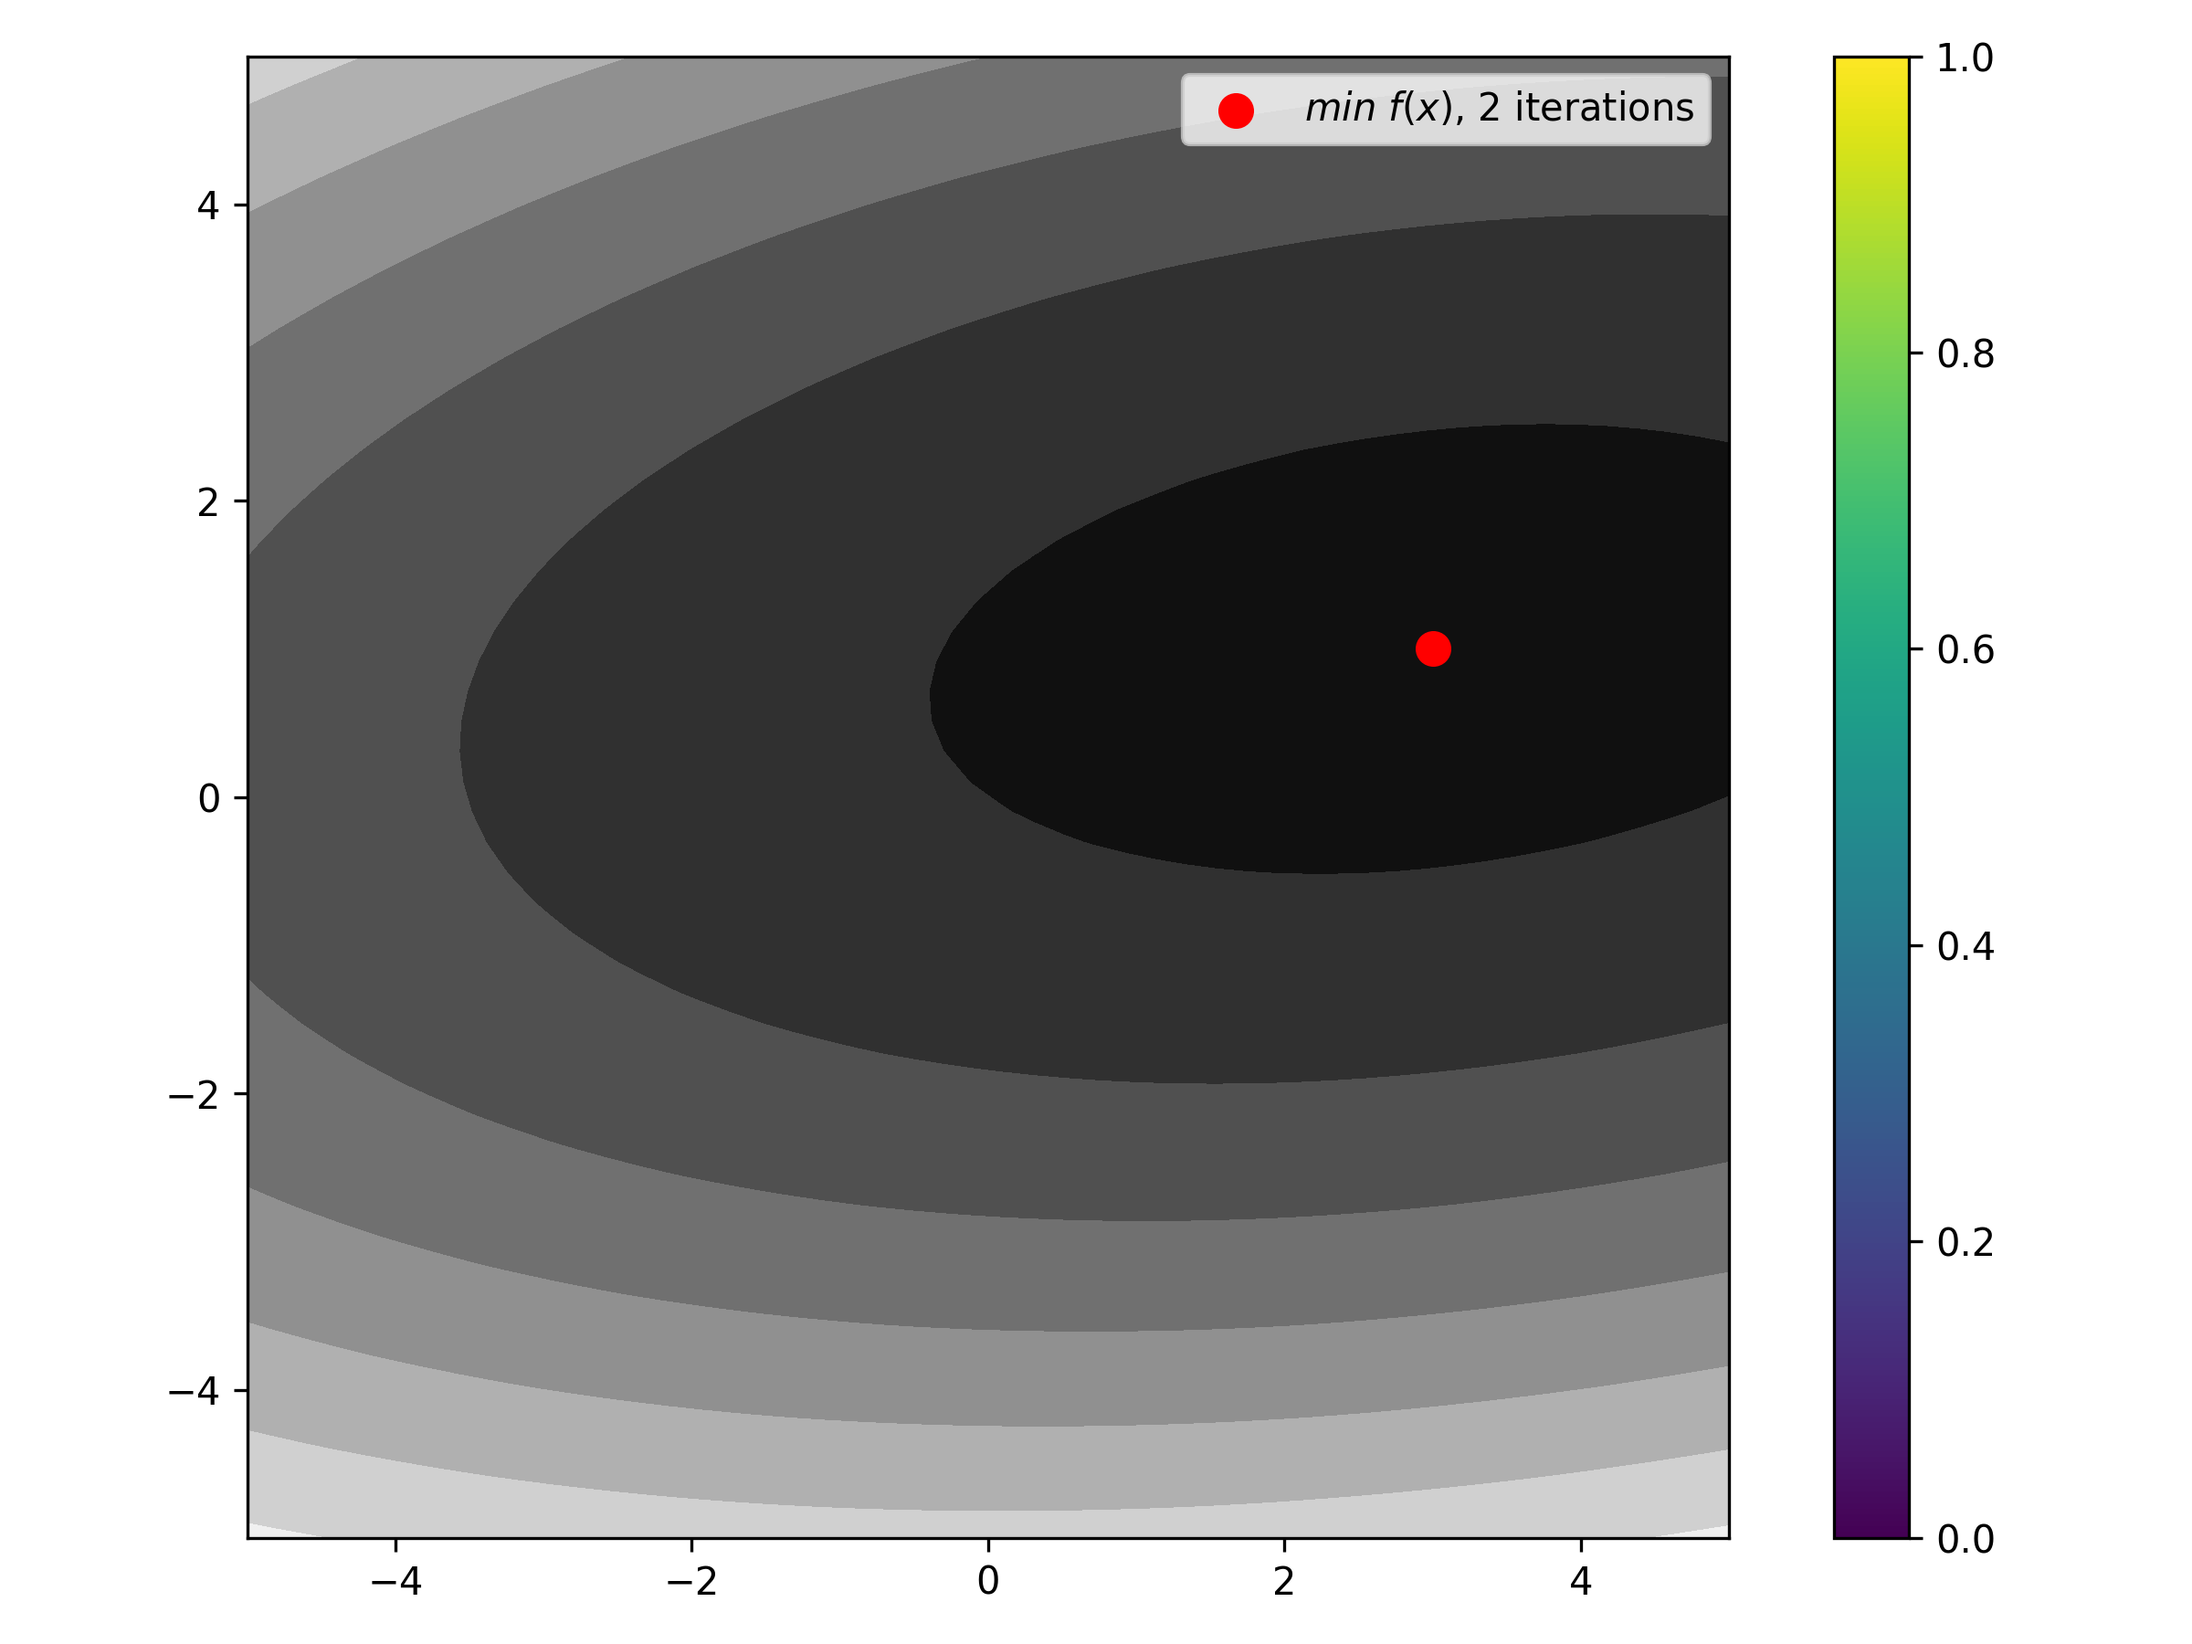
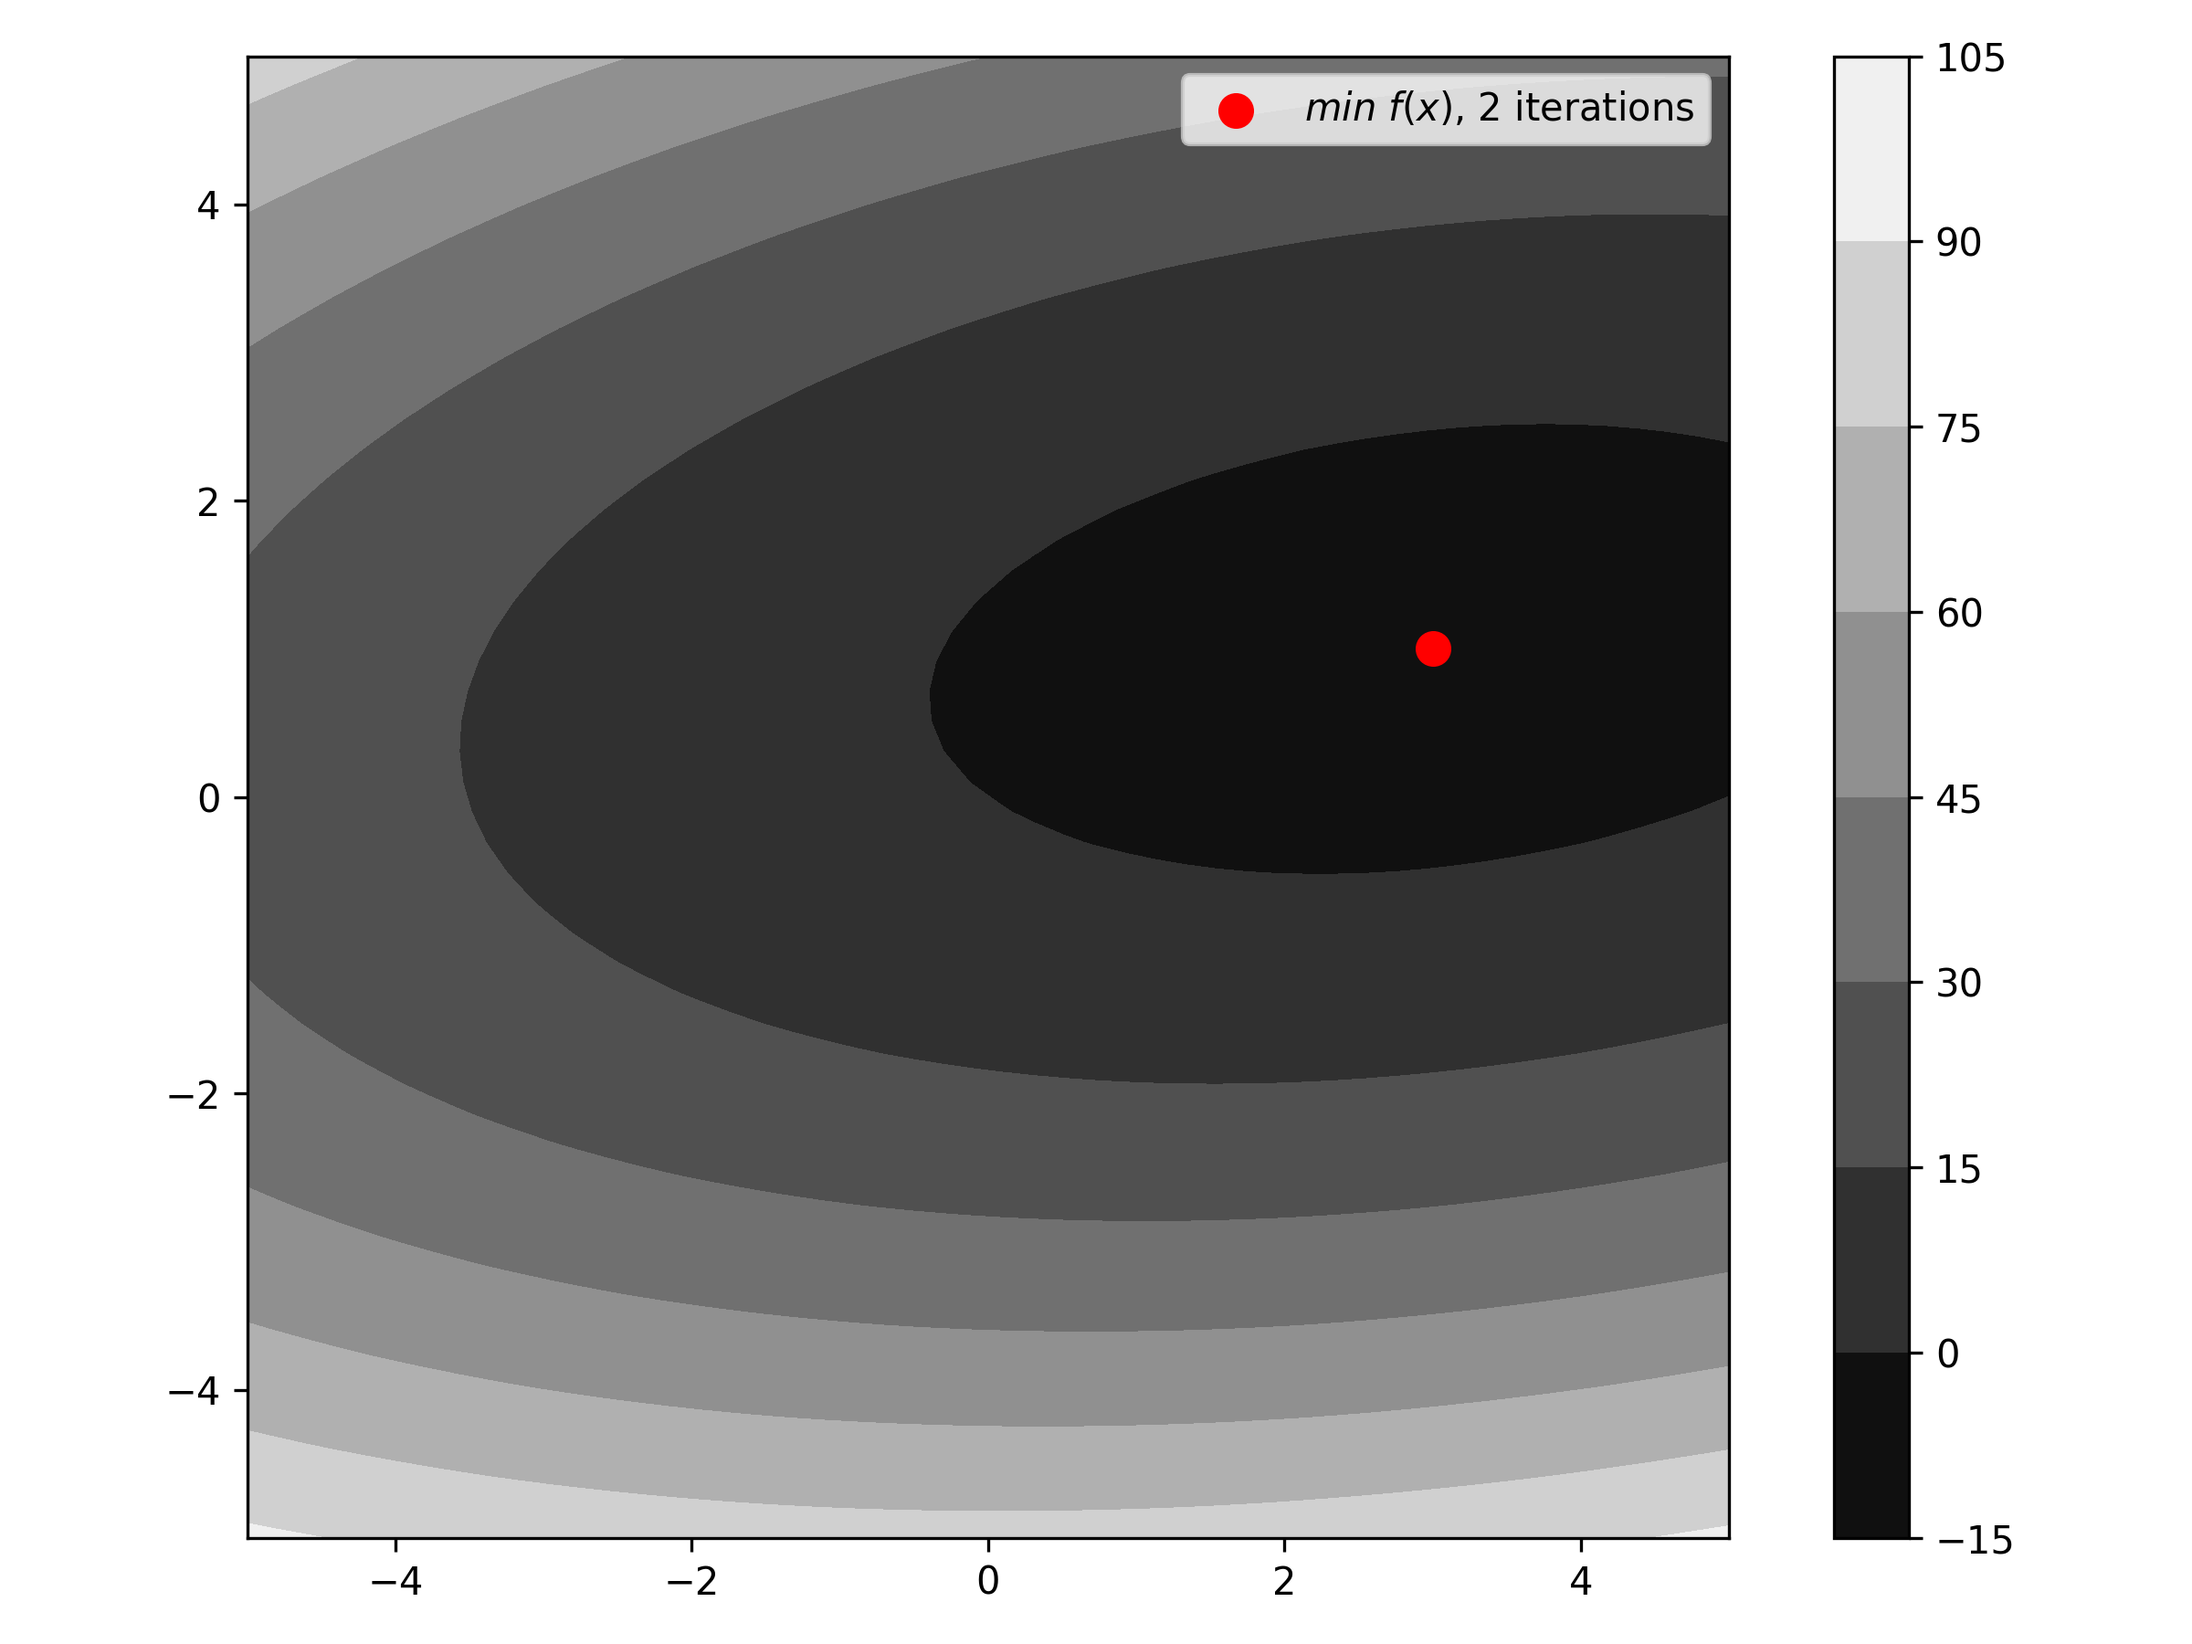
changed colorbars

Changed region(s): [[0.8125, 0.0311, 0.9062, 0.9333], [0.875, 0.9333, 0.9062, 0.9644]]

diff --git a/labs/lab09/src/newton2d.py b/labs/lab09/src/newton2d.py
@@ -21,9 +21,9 @@ xv, yv = np.meshgrid(x, y)
 zv = ff(xv, yv)
 
 plt.subplots(figsize=(7, 6))
-plt.contourf(x, y, zv)
+cset = plt.contourf(x, y, zv)
 plt.axis('scaled')
-plt.colorbar()
+plt.colorbar(cset)
 plt.savefig('plots/newton2d_levels.png', dpi=300)
 
 print('Enter starting points in format < x y >:')
@@ -34,9 +34,9 @@ maxima, iter_max = newton_optimize_vec(func=f, bbox=bbox, start=start,
                                        eps=1e-6, minimize=False)
 
 fig, ax = plt.subplots(figsize=(7, 6))
-plt.contour(x, y, zv)
+cset = plt.contour(x, y, zv)
 plt.axis('scaled')
-plt.colorbar()
+plt.colorbar(cset)
 plt.scatter(minima[0], minima[1],
             s=70,
             color='red',

diff --git a/labs/lab09/src/conjucate_grad.py b/labs/lab09/src/conjucate_grad.py
@@ -40,13 +40,13 @@ print(f'min(f(x)) = {minima}, {iter_min} iterations with general formula')
 print(f'min(f(x)) = {minima_q}, {iter_min_q} iterations with quadratic formula')
 
 plt.subplots(figsize=(8, 6))
-plt.contourf(x, y, zv, cmap='gray')
+cset = plt.contourf(x, y, zv, cmap='gray')
 plt.scatter(minima[0], minima[1],
             s=70,
             color='red',
             label=f'$min$ $f(x)$, {iter_min} iterations')
 plt.axis('scaled')
-plt.colorbar()
+plt.colorbar(cset)
 plt.tight_layout()
 plt.legend()
 plt.savefig('plots/conjucate_grad.png', dpi=300)
